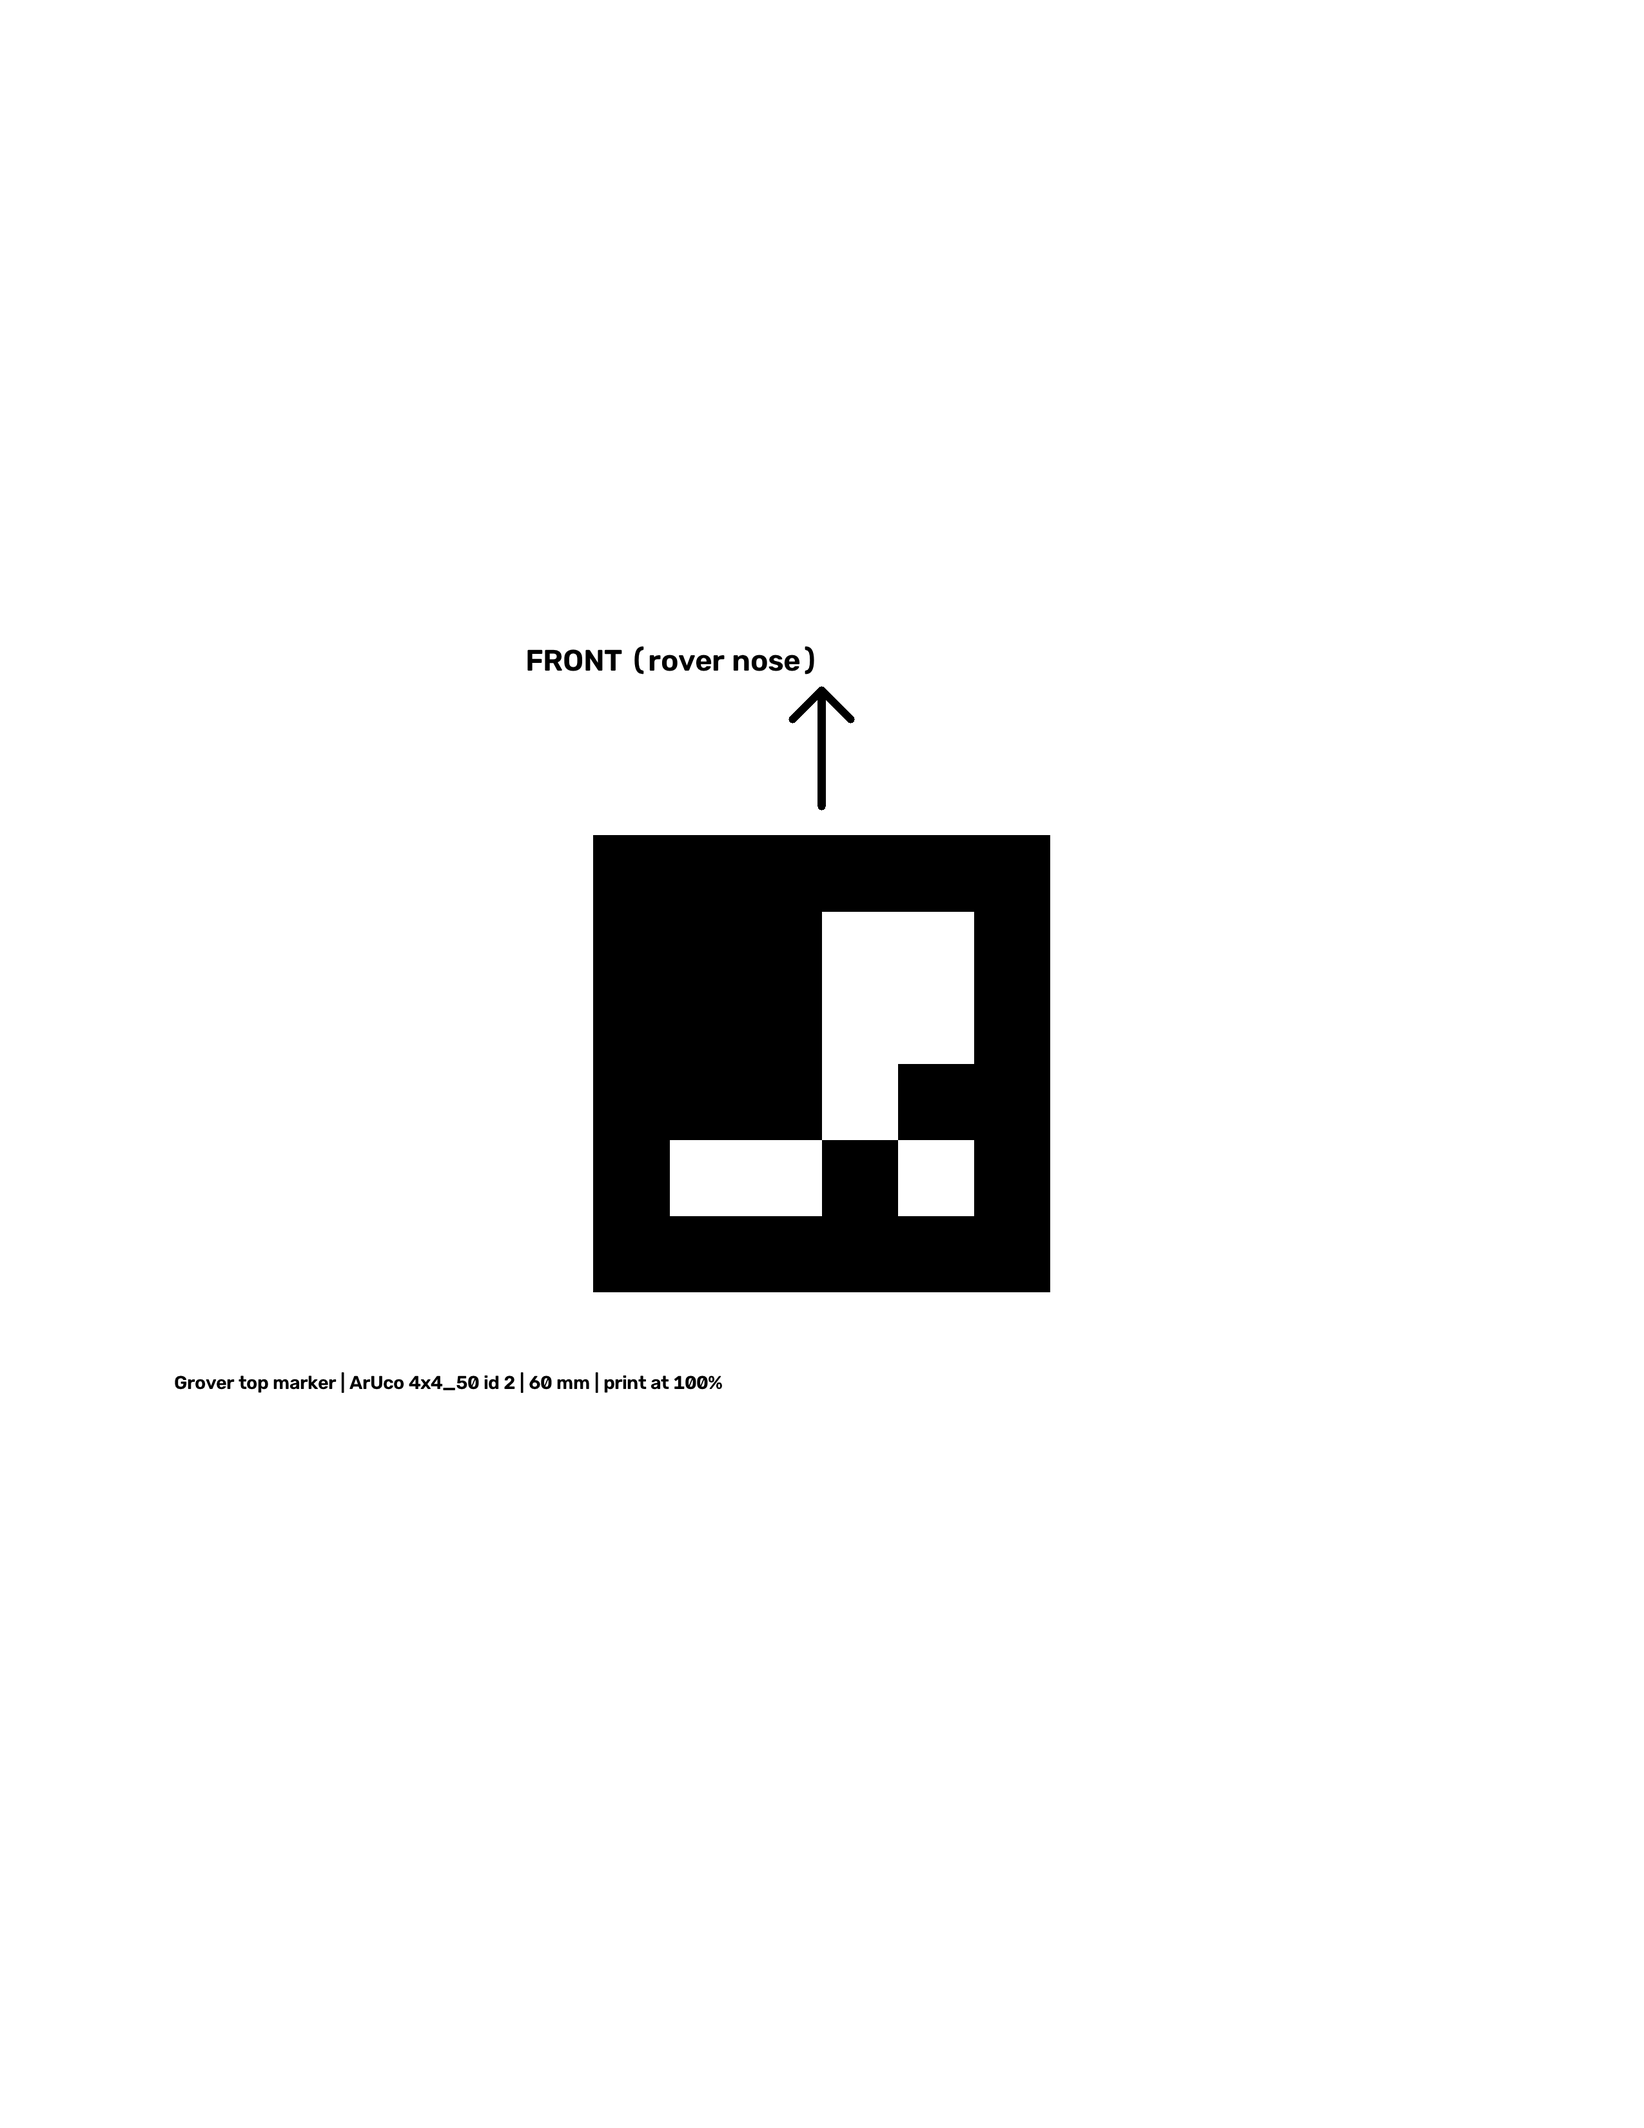
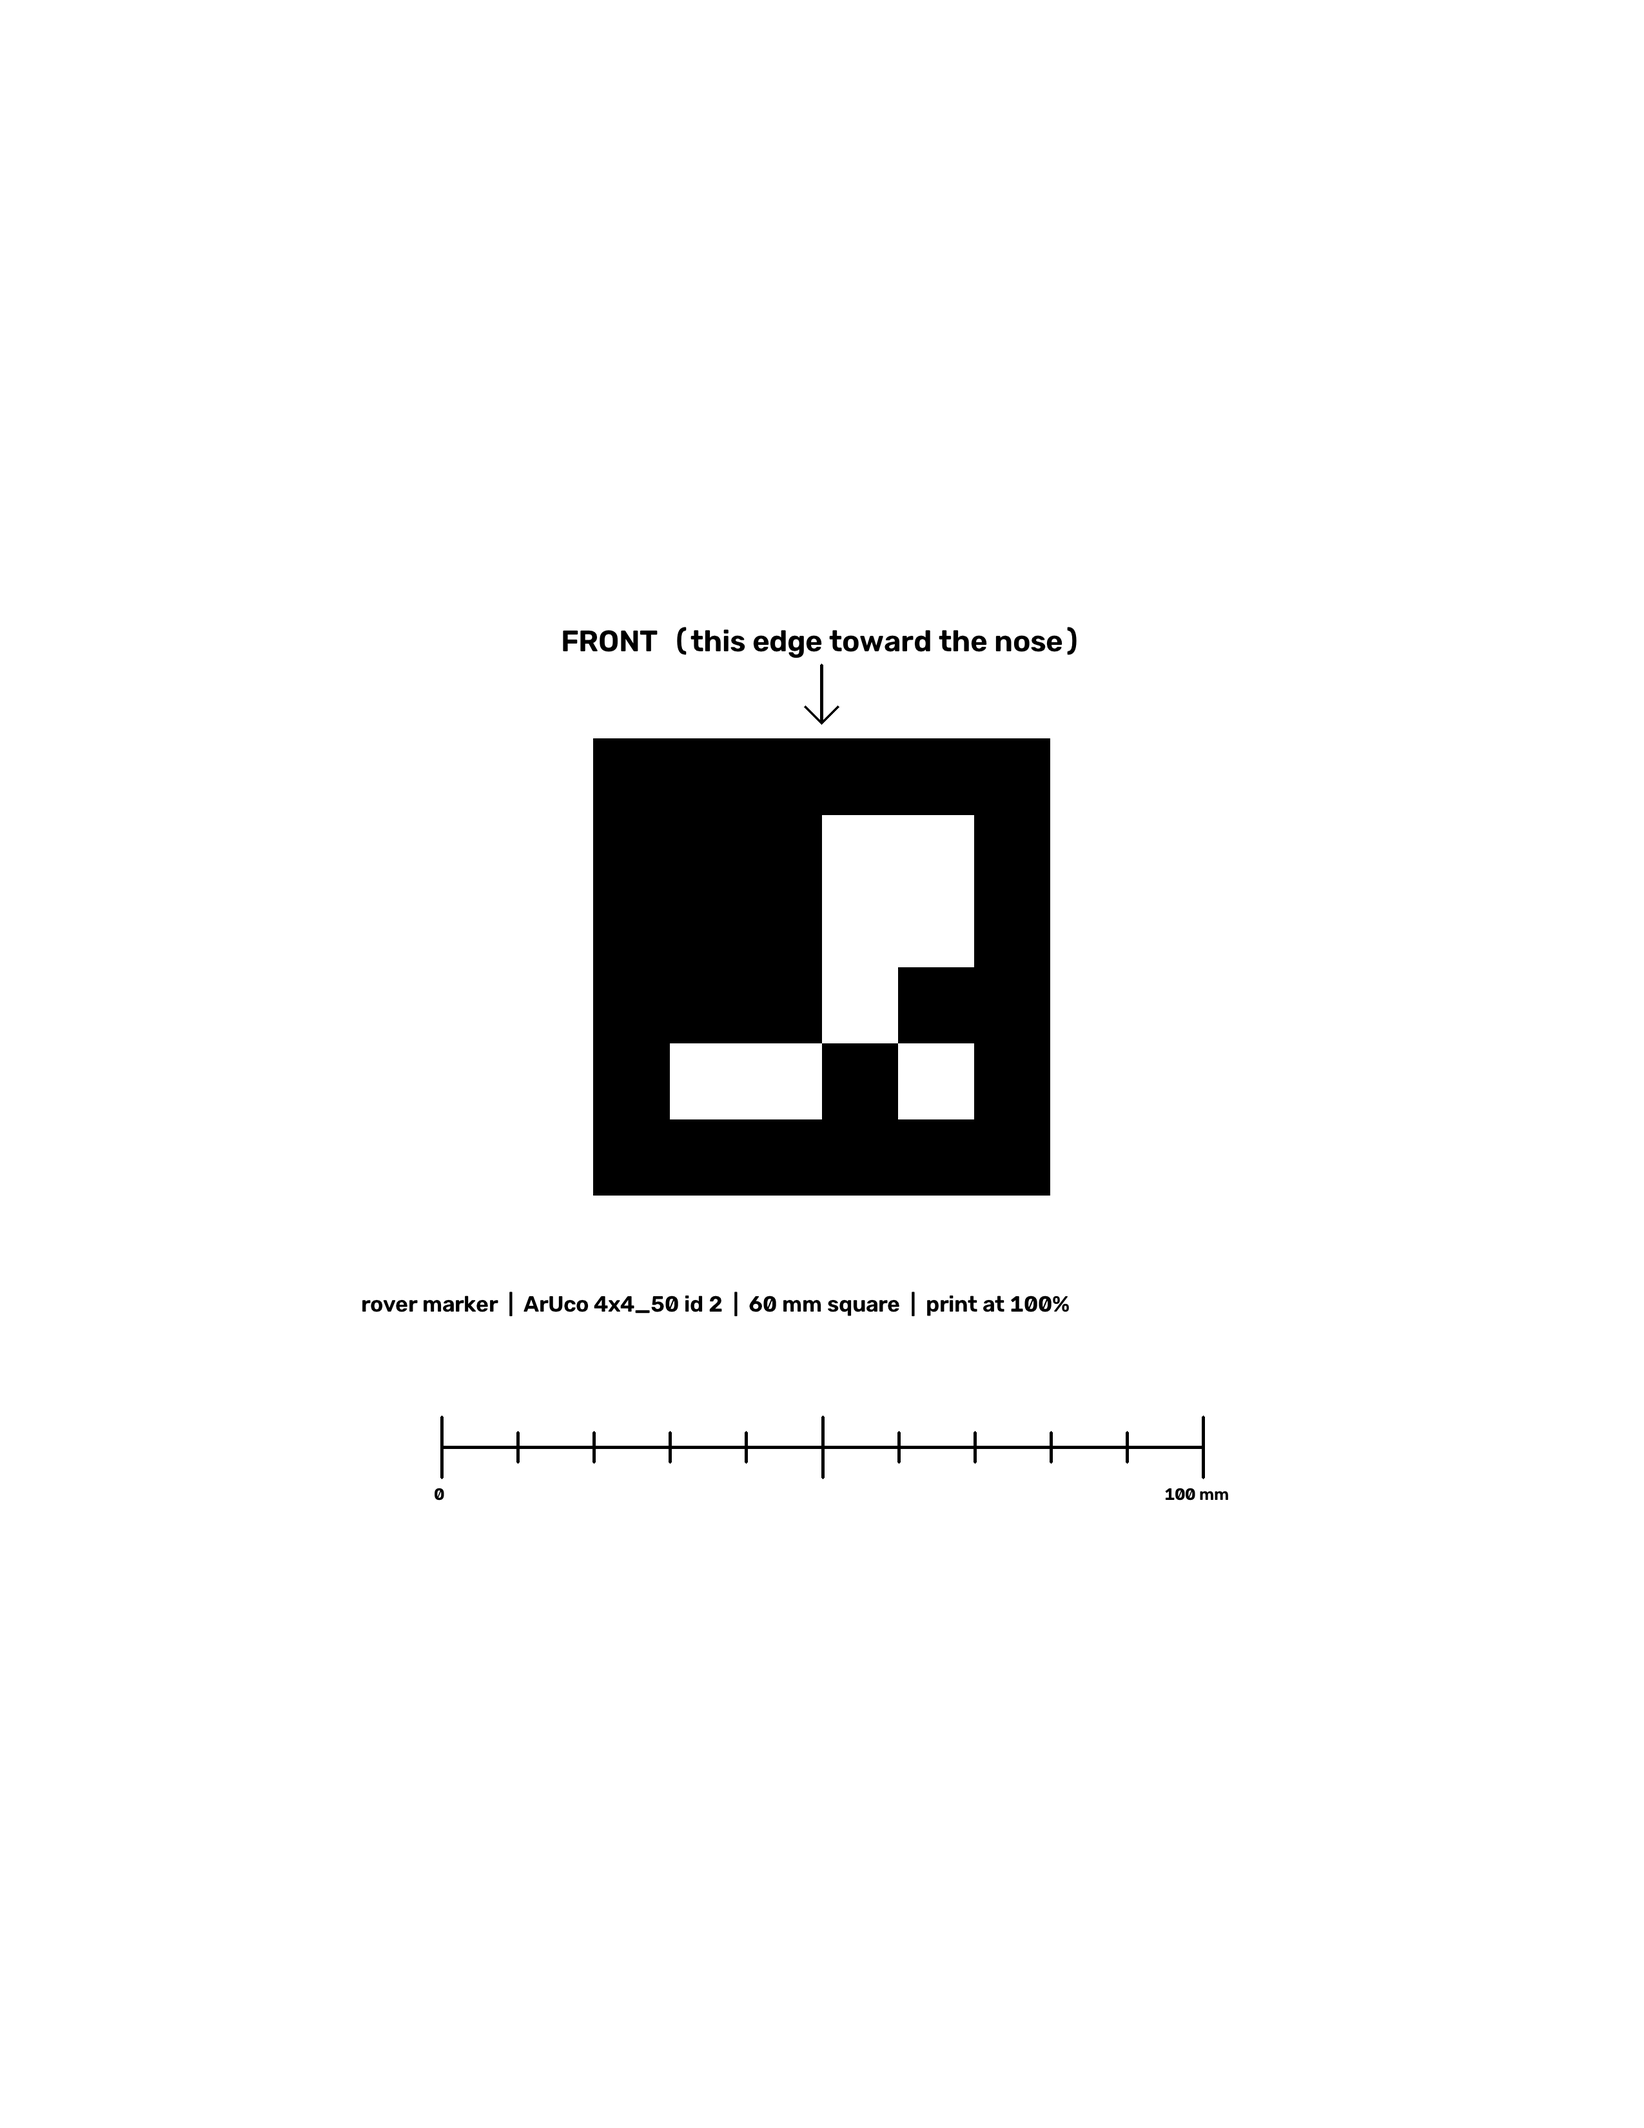
markers: FRONT label + 100 mm scale bar on the pages, scripts/print_marker.py prints one over IPP at native size
The house inkjet takes JPEG/raster only, so the 300 DPI page is re-encoded
as a JPEG with a 300 dpi JFIF header and submitted with print-scaling=none.
The id 2 job is queued on the printer behind an empty-yellow stop.

Claude-Session: https://claude.ai/code/session_01LHfYYGVwabRiDciiVJtuZx

Changed region(s): [[0.2788, 0.2809, 0.6506, 0.6555], [0.7125, 0.6867, 0.7435, 0.7179], [0.2478, 0.593, 0.2788, 0.6242]]

diff --git a/hardware/markers/make_marker.py b/hardware/markers/make_marker.py
@@ -3,11 +3,16 @@
 Generate a printable ArUco marker page for visual homing.
 
 Default: dictionary 4x4_50, id 0, 80 mm square, centred on a US Letter page
-at 300 DPI with a thick white quiet zone (the detector needs it) and a
-caption. Print at 100% scale - no "fit to page" - and check the square with
-a ruler; the brain's distance estimate assumes the printed size.
+at 300 DPI with a thick white quiet zone (the detector needs it), a caption
+and a 100 mm scale bar with 10 mm ticks. Print at 100% scale - no "fit to
+page" - and check the scale bar with a ruler; the brain's distance estimate
+assumes the printed size. `--front` adds a "FRONT" label on the marker's
+top edge, which is the forward direction `brain/overhead.py` reads from it
+(the rover's top marker goes on with that edge toward the nose).
 
-    usage: make_marker.py [--id 0] [--size-mm 80] [--out aruco_4x4_50_id0_80mm.png]
+    usage: make_marker.py [--id 0] [--size-mm 80] [--front] [--out aruco_4x4_50_id0_80mm.png]
+
+Printing over the network from this repo: `scripts/print_marker.py`.
 """
 import argparse
 import cv2
@@ -15,27 +20,53 @@ import numpy as np
 
 DPI = 300
 PAGE_W_IN, PAGE_H_IN = 8.5, 11.0
+MM = DPI / 25.4
 
 
 def main():
     ap = argparse.ArgumentParser()
     ap.add_argument("--id", type=int, default=0)
     ap.add_argument("--size-mm", type=float, default=80.0)
+    ap.add_argument("--front", action="store_true", help="label the top edge FRONT (rover top marker)")
     ap.add_argument("--out", default=None)
     a = ap.parse_args()
     out = a.out or f"aruco_4x4_50_id{a.id}_{int(a.size_mm)}mm.png"
 
     dictionary = cv2.aruco.getPredefinedDictionary(cv2.aruco.DICT_4X4_50)
-    px = int(round(a.size_mm / 25.4 * DPI))
+    px = int(round(a.size_mm * MM))
     marker = cv2.aruco.generateImageMarker(dictionary, a.id, px)
 
     page = np.full((int(PAGE_H_IN * DPI), int(PAGE_W_IN * DPI)), 255, np.uint8)
     y0 = (page.shape[0] - px) // 2 - int(0.5 * DPI)
     x0 = (page.shape[1] - px) // 2
     page[y0:y0 + px, x0:x0 + px] = marker
-    caption = f"rover homing marker  |  ArUco 4x4_50 id {a.id}  |  {a.size_mm:g} mm square  |  print at 100%"
-    cv2.putText(page, caption, (x0 - int(1.2 * DPI), y0 + px + int(0.6 * DPI)),
+
+    if a.front:
+        label = "FRONT  (this edge toward the nose)"
+        (tw, th), _ = cv2.getTextSize(label, cv2.FONT_HERSHEY_SIMPLEX, 1.6, 4)
+        cv2.putText(page, label, (x0 + px // 2 - tw // 2, y0 - int(0.45 * DPI)),
+                    cv2.FONT_HERSHEY_SIMPLEX, 1.6, 0, 4, cv2.LINE_AA)
+        # arrow from the label down to the marker's top edge
+        ax = x0 + px // 2
+        cv2.arrowedLine(page, (ax, y0 - int(0.38 * DPI)), (ax, y0 - int(0.08 * DPI)), 0, 4, tipLength=0.4)
+
+    caption = f"rover marker  |  ArUco 4x4_50 id {a.id}  |  {a.size_mm:g} mm square  |  print at 100%"
+    cy = y0 + px + int(0.6 * DPI)
+    cv2.putText(page, caption, (x0 - int(1.2 * DPI), cy),
                 cv2.FONT_HERSHEY_SIMPLEX, 1.2, 0, 3, cv2.LINE_AA)
+
+    # 100 mm scale bar, 10 mm ticks: the printed-size check is a ruler on this bar
+    bx0 = page.shape[1] // 2 - int(50 * MM)
+    by = cy + int(0.7 * DPI)
+    cv2.line(page, (bx0, by), (bx0 + int(100 * MM), by), 0, 4)
+    for i in range(11):
+        x = bx0 + int(round(i * 10 * MM))
+        h = int(4 * MM) if i % 5 == 0 else int(2 * MM)
+        cv2.line(page, (x, by - h), (x, by + h), 0, 4)
+    cv2.putText(page, "0", (bx0 - 12, by + int(7 * MM)), cv2.FONT_HERSHEY_SIMPLEX, 0.9, 0, 2, cv2.LINE_AA)
+    cv2.putText(page, "100 mm", (bx0 + int(100 * MM) - 60, by + int(7 * MM)),
+                cv2.FONT_HERSHEY_SIMPLEX, 0.9, 0, 2, cv2.LINE_AA)
+
     cv2.imwrite(out, page)
     print(f"wrote {out}: marker {px}px = {a.size_mm:g} mm at {DPI} DPI, page {page.shape[1]}x{page.shape[0]}")
 

diff --git a/scripts/print_marker.py b/scripts/print_marker.py
@@ -1,0 +1,95 @@
+#!/usr/bin/env python3
+"""
+Print a marker page from hardware/markers/ on a network inkjet over IPP,
+at exactly 100 % (no fit-to-page), so the ArUco square comes out the size
+the brain assumes.
+
+The page PNGs are 2550x3300 (US Letter at 300 DPI). The printer here is an
+AirPrint-class inkjet that takes JPEG but not PDF, so the page is re-encoded
+as a JPEG whose JFIF header says 300 x 300 dpi and submitted with
+print-scaling=none on Letter. Check the 100 mm scale bar with a ruler on
+the first print.
+
+Needs `ipptool` (Debian/Ubuntu: `sudo apt-get install cups-ipp-utils`) and
+the brain venv (OpenCV). The printer's address is never in the repo: pass
+--printer or set MARKER_PRINTER (host or host:port).
+
+    scripts/print_marker.py hardware/markers/aruco_4x4_50_id2_60mm.png --printer <host>
+"""
+import argparse
+import os
+import struct
+import subprocess
+import sys
+import tempfile
+from pathlib import Path
+
+import cv2
+
+DPI = 300
+
+TEST = """{
+  NAME "Print-Job marker page"
+  OPERATION Print-Job
+  GROUP operation-attributes-tag
+  ATTR charset attributes-charset utf-8
+  ATTR naturalLanguage attributes-natural-language en
+  ATTR uri printer-uri $uri
+  ATTR name requesting-user-name grover
+  ATTR name job-name "$jobname"
+  ATTR mimeMediaType document-format image/jpeg
+  GROUP job-attributes-tag
+  ATTR keyword media na_letter_8.5x11in
+  ATTR keyword print-scaling none
+  ATTR keyword print-color-mode monochrome
+  ATTR enum print-quality 5
+  ATTR integer copies $copies
+  FILE $filename
+  STATUS successful-ok
+  STATUS successful-ok-ignored-or-substituted-attributes
+  EXPECT job-id OF-TYPE integer WITH-VALUE >0
+  DISPLAY job-id
+  DISPLAY job-state
+}
+"""
+
+
+def png_to_jpeg_300dpi(png: Path, jpg: Path) -> None:
+    img = cv2.imread(str(png), cv2.IMREAD_GRAYSCALE)
+    if img is None:
+        sys.exit(f"cannot read {png}")
+    ok, buf = cv2.imencode(".jpg", img, [cv2.IMWRITE_JPEG_QUALITY, 95])
+    if not ok:
+        sys.exit("jpeg encode failed")
+    data = bytearray(buf.tobytes())
+    # JFIF APP0 right after SOI: FF E0 len 'JFIF\0' ver(2) units(1) xd(2) yd(2)
+    assert data[2:4] == b"\xff\xe0" and data[6:11] == b"JFIF\x00", "no JFIF APP0 to patch"
+    data[13:18] = struct.pack(">BHH", 1, DPI, DPI)   # units=1 -> dots per inch
+    jpg.write_bytes(data)
+
+
+def main() -> None:
+    ap = argparse.ArgumentParser()
+    ap.add_argument("png", type=Path)
+    ap.add_argument("--printer", default=os.environ.get("MARKER_PRINTER"), help="host[:port] (or $MARKER_PRINTER)")
+    ap.add_argument("--copies", type=int, default=1)
+    ap.add_argument("--dry-run", action="store_true", help="write the JPEG and test file, don't print")
+    a = ap.parse_args()
+    if not a.printer:
+        sys.exit("printer address: --printer or MARKER_PRINTER")
+    with tempfile.TemporaryDirectory() as td:
+        jpg = Path(td) / (a.png.stem + ".jpg")
+        png_to_jpeg_300dpi(a.png, jpg)
+        test = Path(td) / "print-marker.test"
+        test.write_text(TEST)
+        cmd = ["ipptool", "-tv", "-f", str(jpg), "-d", f"jobname={a.png.stem}", "-d", f"copies={a.copies}",
+               f"ipp://{a.printer}/ipp/print", str(test)]
+        print(" ".join(cmd))
+        if a.dry_run:
+            print(f"dry run: {jpg} ({jpg.stat().st_size} bytes)")
+            return
+        sys.exit(subprocess.call(cmd))
+
+
+if __name__ == "__main__":
+    main()

diff --git a/JOURNAL.md b/JOURNAL.md
@@ -191,7 +191,8 @@ reattached, the balancer board battery pack is attached" - the cradle v3
 and camera mount v6 both went on without rework. "You can run the test
 when ready." The id 2 marker for Grover's top "was never installed" (so
 the brain's overhead pose has never actually had a rover to find) - he is
-printing it. He asked for recent pictures in the docs.
+printing it. He asked for recent pictures in the docs. 10-23: he offered
+the house inkjet so I could print the marker pages myself.
 
 ![The tank from the side (Enoch's photo): cradle v3 on the posts, camera mount v6 on its perch](images/09-tank-side-2026-10-22.jpg)
 ![Head-on (Enoch's photo): camera, TFMini bracket and cliff mounts on the deck plate's front edge; the OLED is blurred because it shows the IP](images/10-tank-front-2026-10-22.jpg)
@@ -236,6 +237,28 @@ sits centred over the tracks - the cradle's 40 mm rearward shift did its job.
 **Claude-driven:** running the tests, the duty thresholds, the gyro sign
 fix, the braked turn stop. **Enoch-decided:** when Grover was on and where
 it sat; "yes" the 80 % pulse moved it; the marker print; pictures in the docs.
+
+### 10-23: the marker goes to the inkjet over IPP
+
+Enoch pointed me at the house inkjet ("if you want to try printing the
+marker(s) directly"), so the marker page now prints from the repo without
+a human in the loop: `scripts/print_marker.py` re-encodes the 300 DPI page
+as a JPEG whose header says 300 dpi (the printer takes JPEG and raster,
+not PDF) and submits it with `ipptool` as a Print-Job with
+`print-scaling=none` on Letter. The page itself grew a **FRONT** label on
+the marker's top edge (the edge `brain/overhead.py` reads as forward) and
+a **100 mm scale bar** with 10 mm ticks, so the printed-size check is a
+ruler on the bar, not on the marker. Pages for ids 0, 1 and 2 regenerated
+and re-detected at heading 90.0 (page-up) in the brain's own detector.
+
+The printer accepted the id 2 job and stopped two minutes later with a
+critical alert: the yellow cartridge reads empty. A monochrome page still
+needs the override on the printer's own panel (Canon stops on any empty
+tank), so the job sits in its queue until Enoch presses it or swaps the
+cartridge. The id 0 page (80 mm) is queued next in my notes, not the
+printer: it goes flat on the bench in front of the upright homing marker
+as the overhead camera's "goal spot", so `locate` can give the steering
+loop a target in the same frame as Grover.
 
 ## 2026-10-18 - Back on the bench: ramped motion engine, BMS pack, Eufy schedule
 

diff --git a/hardware/README.md b/hardware/README.md
@@ -17,6 +17,18 @@ except for the one `apt-get` line noted at the top of that script).
 | `battery-cradle.scad` | **v3 (tank, 2026-10-19):** cradle for the 3x18650 holder with the HW-288 BMS flush at one end of its back (61 x 79 x ~23). Sits on the four 30 mm posts (96 x 64 centres, +/-2 mm slots) with the pocket shifted **40 mm rearward** to put the pack on the track midpoint: rear bolt heads sunk under the holder's floor, front bolts in the floor-level front tab, which is also the camera perch (5x2 M4 grid + cable drop). BMS at the front end, its window open to the deck below for the leads. Cells up, zip-tie slots, 2 mm end clearance for the balance-lead wraps. Prints floor down, no supports. | Posts and holder measured by Enoch 10-18/19. **Printed 2026-10-19** (job `5fa9f793b0`, 2h 19m, 57 g PETG). Enoch's test fit with the holder: "will likely work". **Bolted on 2026-10-22**, pack in; the assumed body_h / bms_h (17 / 6) were close enough that nothing needed rework. |
 | `caster-skid.scad` | Fixed domed PETG skid replacing the swivel caster (which twisted the rear on stops). 22 mm puck, 36 mm tall (bracket underside to bench), M5 bolt down through the block into a captive nut slid in from the side. Round, so the single bolt can't steer it. | Printed and fitted 2026-10-18; its aluminium bracket sheared in the fall the same day and the skid was lost. Superseded by the tank rebuild. |
 
+## Markers
+
+`markers/make_marker.py` draws an ArUco 4x4_50 page (US Letter, 300 DPI):
+the square at its exact size, a caption, a 100 mm scale bar with 10 mm
+ticks, and with `--front` a FRONT label on the top edge (what
+`brain/overhead.py` treats as forward). Committed pages: id 0 80 mm and
+id 1 160 mm (homing targets), id 2 60 mm FRONT-labelled (Grover's top).
+Print at 100 %, never fit-to-page, and check the scale bar with a ruler.
+`scripts/print_marker.py <page.png> --printer <host>` sends a page to an
+IPP inkjet at native size (needs `ipptool` from `cups-ipp-utils`; the
+address stays out of the repo).
+
 ## Render
 
 ```

diff --git a/README.md b/README.md
@@ -40,7 +40,7 @@ instructions, and readable as plain English by anyone.
 - **Visual homing works** (since 10-05): `home_to_marker` finds a printed
   ArUco marker with the onboard camera and parks in front of it. Steering
   from the overhead camera's view of a marker on Grover's top is next -
-  the marker is being printed.
+  the marker page is in the inkjet's queue (10-23).
 - **It has been through the house** (2026-10-04, as the trike): dining
   room to kitchen doorway, ~12-14 m, in camera-checked legs.
 - **Sensors:** TFMini forward LiDAR (obstacle stop at 50 cm), two TCRT5000
@@ -82,8 +82,11 @@ settle, look again - talking to the rover over ESPHome's native API.
   5 V); two TCRT5000 cliff modules at 3.3 V on printed v4 mounts
 - Vision: TTGO T-Camera on the rover (fisheye, ~111 deg); two Thingino
   cameras on the bench (`camv3` behind the rover, `fishcam` PTZ head-on)
-- Homing targets: ArUco 4x4_50 markers, ids 0 (80 mm) and 1 (160 mm),
-  printable from `hardware/markers/`
+- Markers: ArUco 4x4_50, ids 0 (80 mm) and 1 (160 mm) as homing targets,
+  id 2 (60 mm, FRONT-labelled) on Grover's top for the overhead camera -
+  pages in `hardware/markers/`, each with a 100 mm scale bar; print at
+  100 %, or send one straight to a network inkjet with
+  `scripts/print_marker.py`
 
 ## Software
 
